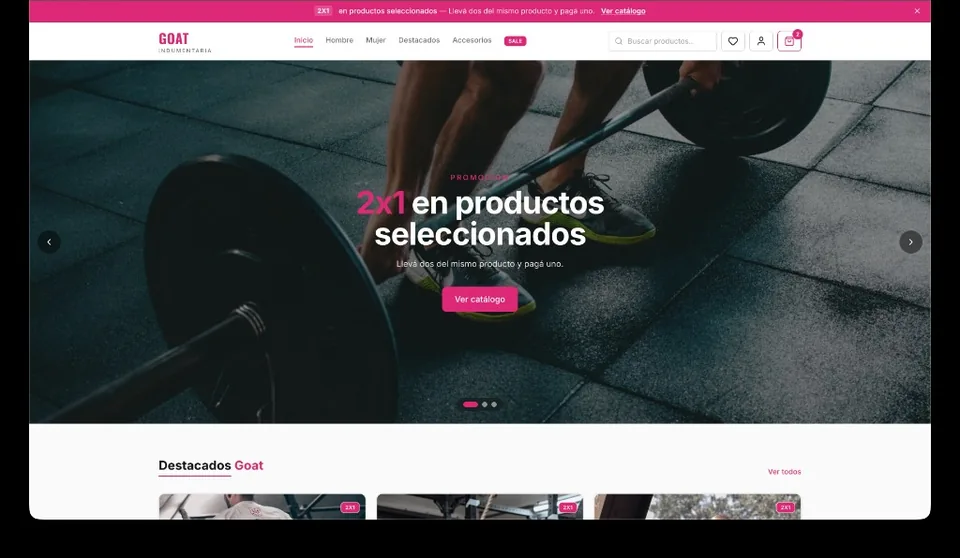
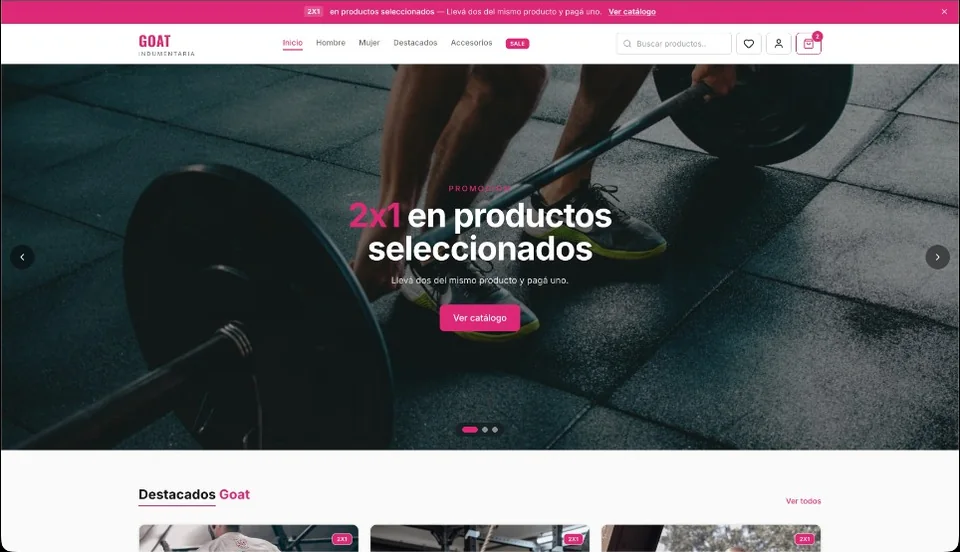
fix(projects): trim black borders from Nexus preview image
Auto-crop macOS window letterboxing from the screenshot so the card
preview fills edge-to-edge without dark side bars.

diff --git a/components/ProjectCard.jsx b/components/ProjectCard.jsx
@@ -141,7 +141,7 @@ export default function ProjectCard({ project, caseStudyLabels }) {
           sx={{
             display: "block",
             width: "100%",
-            aspectRatio: hasPreviewImage ? "960 / 558" : "16 / 9",
+            aspectRatio: hasPreviewImage ? "40 / 23" : "16 / 9",
             position: "relative",
             overflow: "hidden",
             bgcolor: "#152535",
